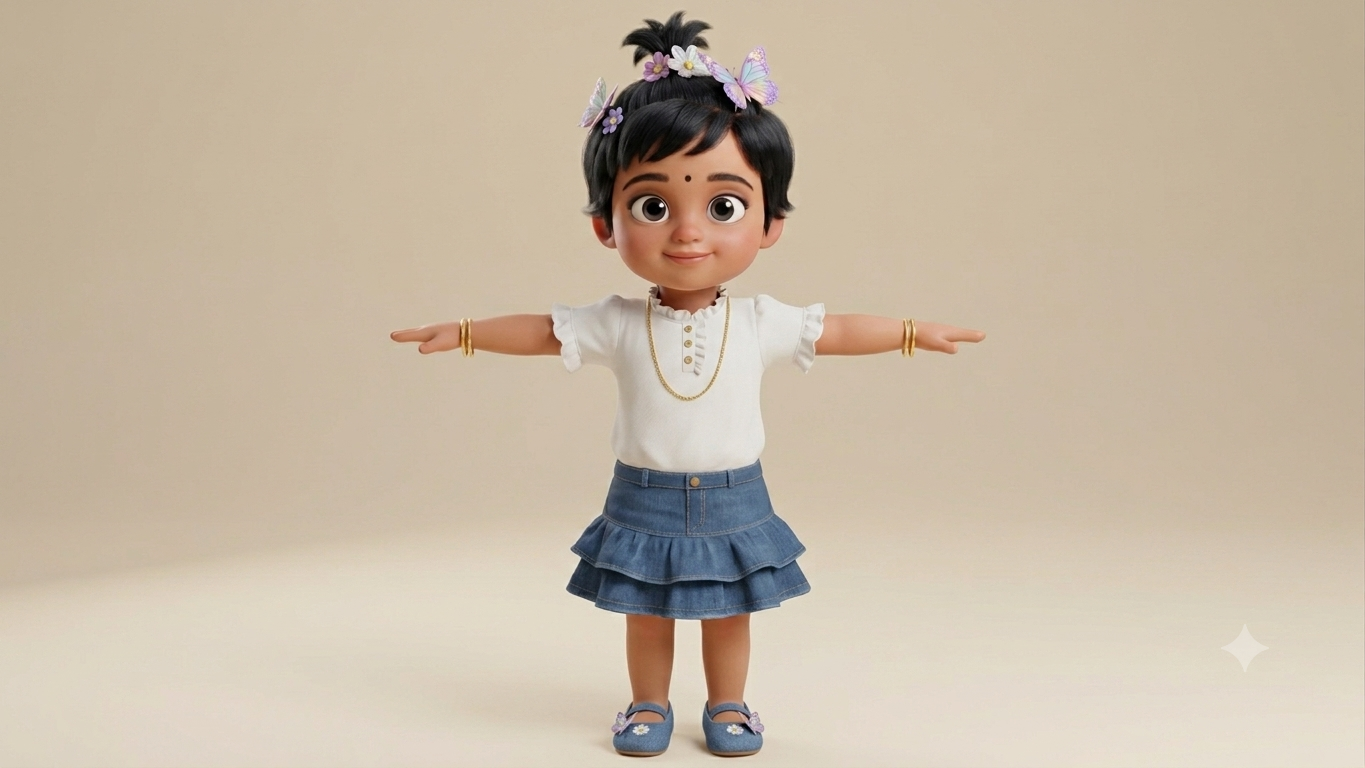
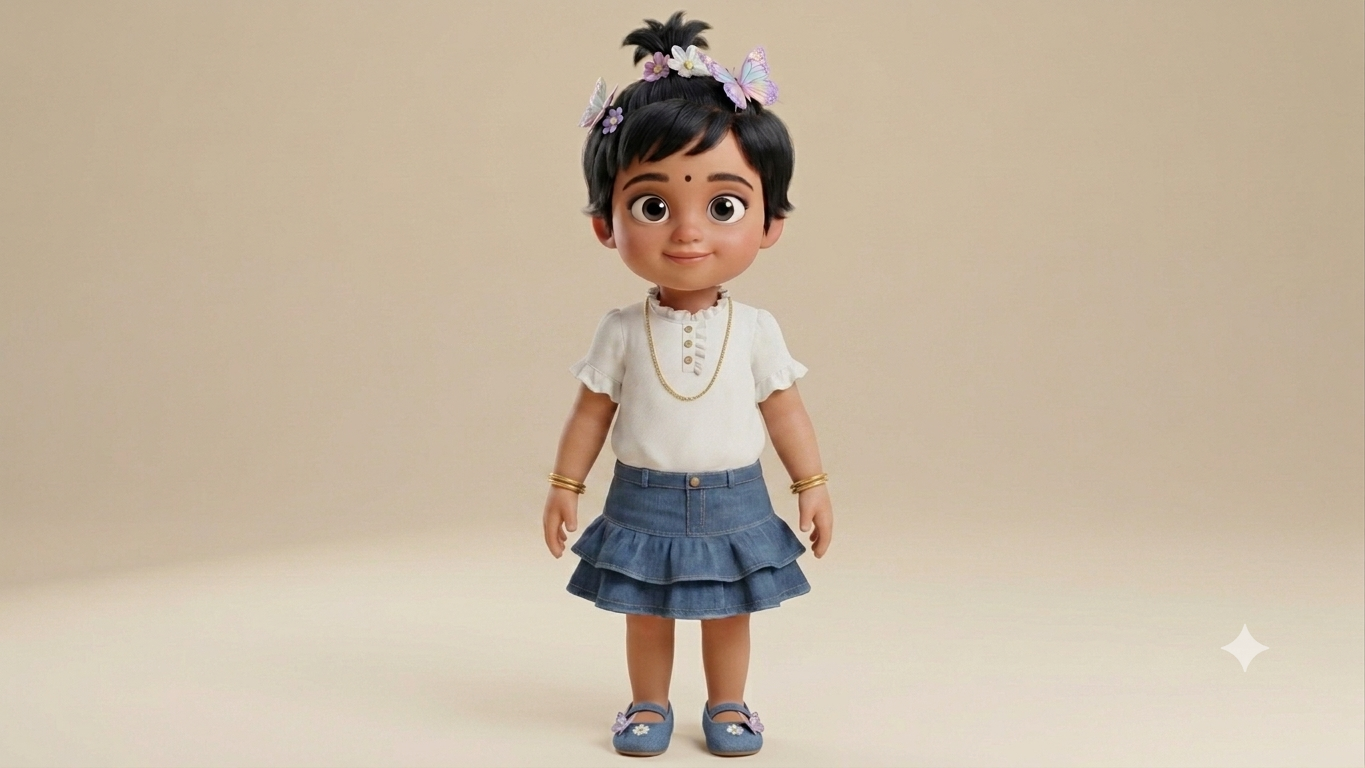
mascot: the character must survive its own picture
A lesson still came back as a DOG wearing the child's clothes, standing in the
reference image's T-pose. Neither was the model being stupid. We told it to do both.

THE DOG. The scene writer produced "the mascot character dressed as a playful puppy,
mid-leap with a chew toy in mouth" — and Qwen-Edit did exactly that. It drew a puppy,
kept the clothes, and the character was gone. _EXPLAINER_SYS asks for "a COSTUME or
ROLE that fits this fact", and for "living things eat, grow and move" the model
reached for an animal. With the old jaguar-cub mascot that was harmless; with a
human-child mascot it is identity destruction.

A hat is a costume. A creature is not. The mascot may now WEAR anything and HOLD
anything, but it can never be "dressed as" an animal — and because the prompt is not
the feature, the CHECK is: keep_the_mascot() catches the swap and moves the animal OUT
of the mascot and BESIDE it. The lesson still gets its puppy; it just cannot BE the
puppy. Verified on the exact scene that failed — the same prompt now renders the child
holding out a bone to a leaping dog, identity intact.

The regex needed a second pass: anchored straight onto the noun it sailed past "a
PLAYFUL puppy", which is the actual string that broke the render.

THE T-POSE, and what it was NOT. NEGATIVE_PRESENTER bans "t-pose, arms spread wide,
stiff symmetrical standing pose" — and the sampler was never listening. The 4-step
Lightning LoRA is distilled to run at cfg 1.0, and at cfg 1.0 there is no
[…]

Changed region(s): [[0.5231, 0.375, 0.7385, 0.7188], [0.2769, 0.375, 0.4923, 0.7188]]

diff --git a/modules/mascot.py b/modules/mascot.py
@@ -643,7 +643,7 @@ def scene_prompt(title: str, context: str = "", topic: str = "") -> str:
         )
         for attempt in (1, 2):
             raw = _call_llm(prompt, _SCENE_SYS, role="creative")
-            scene = _clean_scene(_extract_json(raw).get("scene") or "")
+            scene = keep_the_mascot(_clean_scene(_extract_json(raw).get("scene") or ""))
             if not scene:
                 continue
             bad = scene_violation(scene)
@@ -675,6 +675,12 @@ _EXPLAINER_SYS = (
     "- Put the mascot in a COSTUME or ROLE that fits THIS fact, and make it "
     "ACTIVELY DEMONSTRATE the fact with one concrete prop — it must be DOING "
     "something, mid-motion, never just standing.\n"
+    "- THE MASCOT NEVER BECOMES SOMETHING ELSE. It is always the same character. It "
+    "may WEAR things and HOLD things — a chef's hat, a lab coat, a cape, a ladle — but "
+    "it is never 'dressed as' an animal, a creature or another being, and its body, "
+    "species and face never change. To show an animal, put the animal BESIDE it: "
+    "'the mascot character kneeling beside a puppy, holding out a bone' — never 'the "
+    "mascot character dressed as a puppy'.\n"
     "  Fact 'bees make honey' -> 'the mascot character in a beekeeper suit "
     "scooping dripping honey from a jar and holding up the dripping dipper'.\n"
     "  Fact 'a bee flaps 230 times a second' -> 'the mascot character dressed as "
@@ -709,6 +715,54 @@ _EXPLAINER_SYS = (
 )
 
 
+# The mascot may not be TURNED INTO something else — and the prompt saying so is not
+# enough. Measured on a real lesson: asked to illustrate "living things eat, grow and
+# move", the model wrote "the mascot character dressed as a playful puppy, mid-leap
+# with a chew toy in mouth", and Qwen-Edit did exactly that. It kept the child's
+# clothes and replaced the child with a dog. The character was simply gone.
+#
+# A costume is a hat, a coat, a cape. A creature is not a costume.
+_CREATURES = (
+    "puppy", "dog", "cat", "kitten", "bird", "duck", "chicken", "hen", "cow", "horse",
+    "pig", "sheep", "goat", "rabbit", "bunny", "mouse", "rat", "squirrel", "monkey",
+    "elephant", "lion", "tiger", "bear", "wolf", "fox", "deer", "frog", "toad",
+    "snake", "lizard", "turtle", "tortoise", "fish", "shark", "whale", "dolphin",
+    "octopus", "crab", "bee", "wasp", "ant", "spider", "butterfly", "caterpillar",
+    "worm", "snail", "penguin", "owl", "eagle", "parrot", "peacock", "dinosaur",
+    "dragon", "unicorn", "jaguar", "leopard", "cheetah", "giraffe", "zebra",
+    "kangaroo", "panda", "koala", "hippo", "rhino", "crocodile", "camel", "donkey",
+)
+
+# Up to two adjectives may sit between the article and the animal — the scene that
+# actually broke a render said "dressed as a PLAYFUL puppy", and a regex anchored
+# straight onto the noun sailed past it.
+_AS_A_CREATURE = re.compile(
+    r"\b(?:dressed|disguised|costumed)?\s*as\s+(?:a|an|the)\s+(?:\w+\s+){0,2}?(" +
+    "|".join(_CREATURES) + r")s?\b", re.I)
+
+
+def species_swap(scene: str) -> Optional[str]:
+    """The creature this scene would turn the mascot INTO, or None."""
+    m = _AS_A_CREATURE.search(scene or "")
+    return m.group(1).lower() if m else None
+
+
+def keep_the_mascot(scene: str) -> str:
+    """Rewrite a scene that would replace the mascot with an animal.
+
+    The animal is not dropped — it is moved OUT of the mascot and put beside it, which
+    is what the lesson wanted anyway: the mascot SHOWING you a puppy teaches the same
+    thing as the mascot BEING one, and it is still the mascot.
+    """
+    creature = species_swap(scene)
+    if not creature:
+        return scene
+    fixed = _AS_A_CREATURE.sub(f"standing beside a {creature}", scene, count=1)
+    log.warning(f"scene would have turned the mascot into a {creature}; "
+                f"put the {creature} beside it instead")
+    return fixed
+
+
 def explainer_scene(fact: str, topic: str = "", context: str = "") -> str:
     """A costumed, camera-facing mascot scene that ILLUSTRATES one fact.
 
@@ -738,6 +792,11 @@ def explainer_scene(fact: str, topic: str = "", context: str = "") -> str:
             scene = _clean_scene(got)
             if not scene:
                 continue
+            # The mascot must survive its own scene. "Dressed as a puppy" is not a
+            # costume — Qwen-Edit renders a puppy, keeps the clothes, and the
+            # character is gone. Telling the model not to is not enough; this is the
+            # check.
+            scene = keep_the_mascot(scene)
             bad = scene_violation(scene)
             if not bad:
                 log.info(f"Mascot explainer scene: {scene}")
@@ -759,7 +818,8 @@ def render_scene(scene: str, out_png: Path, aspect: str = "9x16",
                  seed: Optional[int] = None,
                  reference_images: Optional[list] = None,
                  headline: str = "",
-                 presenter: bool = False) -> Optional[Path]:
+                 presenter: bool = False,
+                 full_quality: bool = False) -> Optional[Path]:
     """Render `scene` with the mascot as the identity reference.
 
     `reference_images` (up to 3, e.g. front + three-quarter + side) is honoured
@@ -809,6 +869,29 @@ def render_scene(scene: str, out_png: Path, aspect: str = "9x16",
                 prompt=prompt, output_path=out_png, aspect_ratio=target,
                 seed=seed, negative_prompt=negative,
                 reference_images=[str(p) for p in refs],
+                # full_quality = 20 steps at cfg 2.5, instead of the 4-step Lightning
+                # LoRA at cfg 1.0. Two things change, and only one of them is what you
+                # would expect.
+                #
+                # The negative prompt starts working. Lightning is DISTILLED to run at
+                # cfg 1.0, and at cfg 1.0 there is no classifier-free guidance at all —
+                # the model never looks at the negative conditioning. So
+                # NEGATIVE_PRESENTER's ban on "t-pose, arms spread wide, stiff
+                # symmetrical standing pose" was inert. The ban was written; the sampler
+                # was not listening.
+                #
+                # But measured A/B (same scene, same seed, same reference), that does
+                # NOT reliably fix the pose: on one scene the fast path was the more
+                # dynamic of the two. The T-pose was coming from somewhere else — a
+                # scene that turned the mascot into an animal (see keep_the_mascot) and
+                # a reference image that is itself a T-pose.
+                #
+                # What full_quality DOES buy is the PROPS: a plate of sliced vegetables
+                # instead of candy-coloured blobs. That matters in a lesson, where the
+                # prop is the thing being taught, and not much on a facts reel, where
+                # the mascot is the joke. So lessons ask for it (~100s a still) and
+                # facts stay fast (~27s).
+                use_lightning=not full_quality,
             )
         else:
             # The USO Backend CLASS reads lora_strength from models.json and

diff --git a/tests/test_mascot_pose.py b/tests/test_mascot_pose.py
@@ -1,0 +1,97 @@
+"""The mascot must survive its own picture.
+
+Two failures, found together on a real lesson still: the child had been replaced by a
+DOG (wearing her clothes), standing in the reference image's T-pose.
+
+Neither was the model being stupid. We told it to do both.
+"""
+import inspect
+
+import pytest
+
+from modules import mascot as mas
+
+
+# --- the mascot is never turned into something else ---------------------------
+
+def test_dressed_as_an_animal_is_caught():
+    """The scene that actually shipped: "the mascot character dressed as a playful
+    puppy, mid-leap with a chew toy in mouth". Qwen-Edit did exactly that — it drew a
+    puppy, kept the child's clothes, and the character was gone."""
+    scene = ("the mascot character dressed as a playful puppy facing the camera, "
+             "mid-leap with a chew toy in mouth, wagging tail")
+    assert mas.species_swap(scene) == "puppy"
+
+
+def test_an_adjective_does_not_smuggle_the_animal_past():
+    """A regex anchored straight onto the noun missed "a PLAYFUL puppy" — which is
+    the exact string that broke the render."""
+    for scene, want in [
+        ("the mascot character dressed as a tiny busy bee", "bee"),
+        ("the mascot character disguised as an octopus", "octopus"),
+        ("the mascot character dressed as a big friendly elephant", "elephant"),
+    ]:
+        assert mas.species_swap(scene) == want
+
+
+def test_a_real_costume_is_left_alone():
+    """A hat is a costume. A creature is not. The mascot may be a chef, a beekeeper,
+    a scuba diver — those keep the character and only change its clothes."""
+    for scene in [
+        "the mascot character in a beekeeper suit lifting a dripping honeycomb",
+        "the mascot character dressed as a chef dishing out a plate of vegetables",
+        "the mascot character dressed as a scuba diver pointing at a glowing jellyfish",
+        "the mascot character kneeling beside a puppy, holding out a bone",
+    ]:
+        assert mas.species_swap(scene) is None
+
+
+def test_the_animal_is_moved_beside_the_mascot_not_deleted():
+    """The lesson still wants its puppy — it just cannot BE the puppy. Showing one
+    teaches the same thing as being one, and the mascot survives."""
+    got = mas.keep_the_mascot(
+        "the mascot character dressed as a playful puppy, mid-leap with a chew toy")
+    assert "standing beside a puppy" in got
+    assert "dressed as" not in got
+    assert mas.species_swap(got) is None
+
+
+def test_the_scene_writer_is_told_and_then_checked():
+    """The prompt is not the feature — the check is. Both must be there."""
+    assert "NEVER BECOMES SOMETHING ELSE" in mas._EXPLAINER_SYS
+    src = inspect.getsource(mas.explainer_scene)
+    assert "keep_the_mascot" in src, "the guard must run on what the model returns"
+
+
+# --- the pose ------------------------------------------------------------------
+
+def test_full_quality_turns_lightning_off():
+    """At cfg 1.0 (the 4-step Lightning LoRA) there is no classifier-free guidance, so
+    NEGATIVE_PRESENTER's ban on "t-pose, arms spread wide" is never even read.
+
+    Measured A/B, though: that is NOT what was giving us T-poses — on one scene the
+    fast path was the more dynamic of the two. What the full path really buys is the
+    PROPS (sliced vegetables instead of candy-coloured blobs), which is why a LESSON
+    asks for it and a facts reel does not.
+    """
+    assert "t-pose" in mas.NEGATIVE_PRESENTER.lower()
+
+    src = inspect.getsource(mas.render_scene)
+    assert "use_lightning=not full_quality" in src
+
+
+def test_a_lesson_pays_for_its_props_and_a_facts_reel_does_not():
+    """A lesson's prop is the teaching. A facts reel's mascot is the joke."""
+    from modules import facts_pipeline as fp
+    from modules import lesson_pipeline as lp
+
+    assert "full_quality=True" in inspect.getsource(lp.prepare_lesson)
+    assert "full_quality" not in inspect.getsource(fp._render_facts_mascot)
+
+
+def test_the_lightning_path_really_is_cfg_1():
+    """If the backend ever stops distilling at cfg 1.0, the guard above becomes cargo
+    cult. Prove the thing we are avoiding still exists."""
+    from modules.image_backends import comfyui_qwen_edit as qe
+    assert qe.DEFAULT_CFG_LIGHTNING == 1.0
+    assert qe.DEFAULT_CFG_FULL > 1.0

diff --git a/modules/lesson_pipeline.py b/modules/lesson_pipeline.py
@@ -173,14 +173,21 @@ def prepare_lesson(lesson: dict,
 
     # 3. The stills — one per beat, the mascot presenting, 16x9. Qwen-Edit stays warm
     #    for the whole batch (a cold load is ~4 min, a warm render ~20s).
-    _p(f"🖼 drawing {len(beats)} pictures…")
+    # ~100s each at full quality — say so, rather than let it look hung.
+    _p(f"🖼 drawing {len(beats)} pictures (~{len(beats) * 100 / 60:.0f} min; a lesson "
+       f"draws at full quality so the props are real)…")
     gpu_memory.acquire(gpu_memory.QWEN_EDIT)
     stills = []
     try:
         for i, b in enumerate(beats):
             sp = stills_dir / f"still_{i:02d}.png"
+            # full_quality: 20 steps at cfg 2.5 (~100s) instead of the 4-step
+            # Lightning path (~27s). A lesson's prop IS the teaching — a plate of
+            # vegetables has to look like vegetables, not candy — so a lesson pays
+            # the extra minute a shot. A facts reel does not, and stays fast.
             got = mascot.render_scene(b["mascot_scene"], sp, aspect=ASPECT,
-                                      seed=4000 + i, presenter=True)
+                                      seed=4000 + i, presenter=True,
+                                      full_quality=True)
             if not got:
                 # No black frames, no gradients. A lesson with a missing picture is a
                 # lesson with a hole in it, and it must not be discovered in the file.
